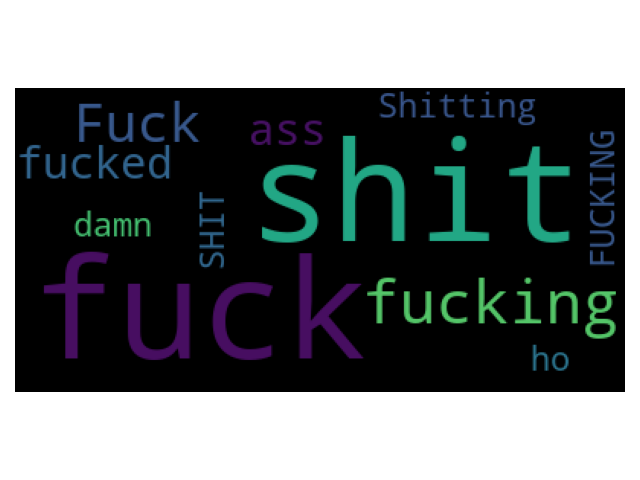
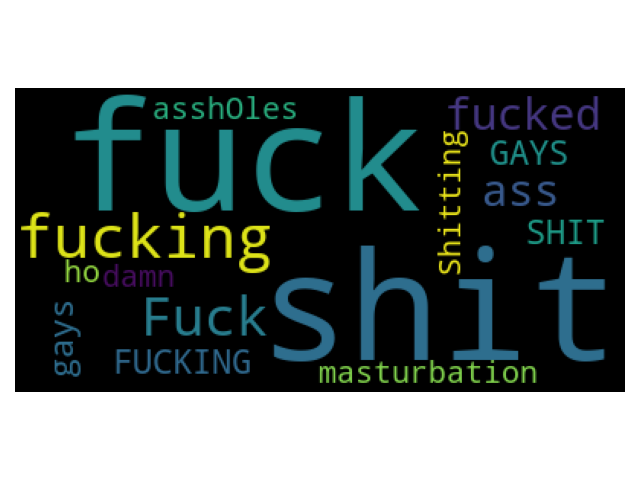
vulgar & lda

Changed region(s): [[0.0312, 0.1875, 0.9688, 0.8125]]

diff --git a/classify_vulgarity.py b/classify_vulgarity.py
@@ -2,25 +2,30 @@ import pandas as pd
 from wordcloud import WordCloud as WC
 from matplotlib import pylab as plt
 from collections import Counter
+from nltk.stem import WordNetLemmatizer, SnowballStemmer
 
 # constant
 DATA_FILE = "./data/yikyak.csv"
 VULGARITY_FILES = "swear_voc.txt"
 SUMMARY_FILE = "./analysis/vulgarity_summary.txt"
 WORD_CLOUD = "./analysis/vulgarity_cloud.png"
+stemmer = SnowballStemmer("english")  
+
+def preprocess(text):
+    return stemmer.stem(WordNetLemmatizer().lemmatize(text, pos='v'))
 
 # load vulgarity
 vulgars = set()
 with open(VULGARITY_FILES, "r") as f:
     for line in f:
-        vulgars.add(line.strip())        
+        vulgars.add(preprocess(line.strip()))     
 
 # check if the sentence contains vulgar language
 def is_vulgar(x):
     if not isinstance(x, str):
         return False
     for word in x.split():
-        if word.lower().strip() in vulgars:
+        if preprocess(word) in vulgars:
             return True
     return False
 
@@ -30,7 +35,7 @@ def get_freq_vulgar(yaks):
         if not isinstance(yak, str):
             continue
         for word in yak.split():
-            if word.lower().strip() in vulgars:
+            if preprocess(word) in vulgars:
                 freq.update([word])
     return freq
                 

diff --git a/fischer.py b/fischer.py
@@ -1,0 +1,18 @@
+from scipy.stats import fisher_exact
+import numpy as np
+
+# previous result (n=544, p=13.5%)
+x = [74, 470]
+
+# current result
+SUMMARY_FILE = "./analysis/vulgarity_summary.txt"
+outfile = open(SUMMARY_FILE, 'r')
+line = outfile.readline()
+y = line.split()[0].split("/")
+
+# fischer's test
+table = np.array([x, y])
+_, p = fisher_exact(table, alternative='two-sided')
+alpha = 0.05
+print("There is {}a statistically significant difference in the frequency of vulgarity used with p={:.2e}"
+      .format("NOT " if p > alpha else "", p))
